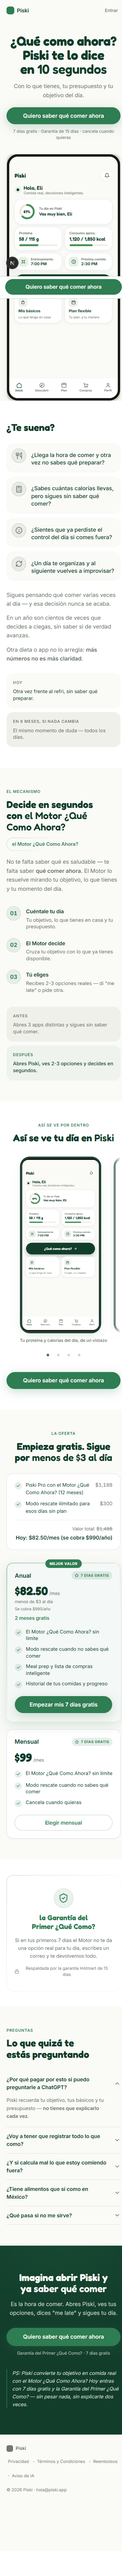
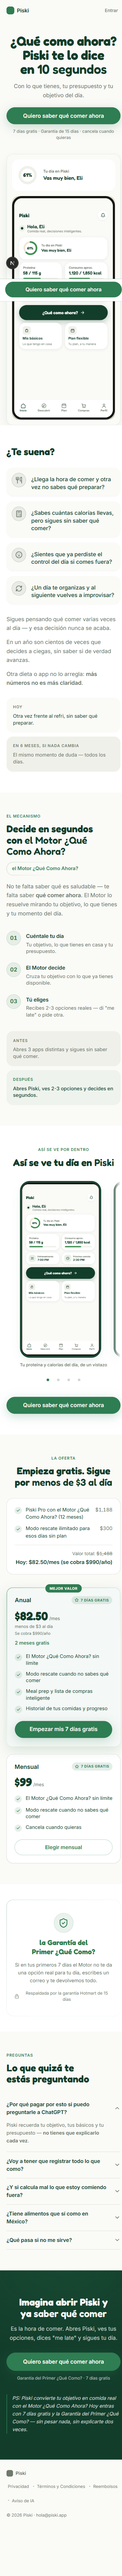
Anillo animado en vivo, boton volver arriba y foco visible reforzado

Changed region(s): [[0.0587, 0.0, 0.9973, 0.9671]]

diff --git a/components/AnimatedRingDemo.tsx b/components/AnimatedRingDemo.tsx
@@ -1,0 +1,69 @@
+'use client';
+
+// Mini-demo VIVO del dispositivo ownable de Piski (el anillo de progreso, ver
+// FICHA-ARTE.md) — no es parte del kit de landing (components/landing/), es un
+// añadido propio del proyecto que refuerza el mecanismo "el Motor ¿Qué Como
+// Ahora?" con una animación real (conteo + anillo dibujándose), no solo un
+// screenshot estático. Vive fuera del kit para no tocar sus .tsx.
+
+import { useEffect, useRef, useState } from 'react';
+import { motion, useInView, useReducedMotion } from 'motion/react';
+
+const RADIO = 24;
+const CIRCUNFERENCIA = 2 * Math.PI * RADIO;
+const PORCENTAJE_FINAL = 61;
+
+export function AnimatedRingDemo() {
+  const ref = useRef<HTMLDivElement | null>(null);
+  const enVista = useInView(ref, { once: true, margin: '-10%' });
+  const reduce = useReducedMotion();
+  const [porcentaje, setPorcentaje] = useState(reduce ? PORCENTAJE_FINAL : 0);
+
+  useEffect(() => {
+    if (!enVista || reduce) return;
+    const inicio = performance.now();
+    const duracionMs = 900;
+    let frame: number;
+    const paso = (ahora: number) => {
+      const t = Math.min(1, (ahora - inicio) / duracionMs);
+      // ease-out cúbico, coherente con --ease del kit
+      const easeOut = 1 - Math.pow(1 - t, 3);
+      setPorcentaje(Math.round(easeOut * PORCENTAJE_FINAL));
+      if (t < 1) frame = requestAnimationFrame(paso);
+    };
+    frame = requestAnimationFrame(paso);
+    return () => cancelAnimationFrame(frame);
+  }, [enVista, reduce]);
+
+  const offset = CIRCUNFERENCIA * (1 - porcentaje / 100);
+
+  return (
+    <div ref={ref} className="flex items-center gap-4 rounded-[var(--radius-card)] bg-[var(--surface)] p-4">
+      <div className="relative size-16 shrink-0">
+        <svg width={64} height={64} viewBox="0 0 64 64" role="img" aria-label={`${porcentaje} por ciento de tu día en Piski`}>
+          <circle cx={32} cy={32} r={RADIO} fill="none" stroke="var(--surface-2)" strokeWidth={8} />
+          <motion.circle
+            cx={32}
+            cy={32}
+            r={RADIO}
+            fill="none"
+            stroke="var(--accent)"
+            strokeWidth={8}
+            strokeLinecap="round"
+            strokeDasharray={CIRCUNFERENCIA}
+            style={{ strokeDashoffset: offset, transform: 'rotate(-90deg)', transformOrigin: '50% 50%' }}
+          />
+        </svg>
+        <div className="absolute inset-0 flex items-center justify-center text-[16px] font-bold tabular-nums text-[var(--text-primary)] [font-family:var(--font-display)]">
+          {porcentaje}%
+        </div>
+      </div>
+      <div className="text-left">
+        <p className="text-[11.5px] font-semibold text-[var(--text-secondary)]">Tu día en Piski</p>
+        <p className="text-[16px] font-semibold text-[var(--text-primary)] [font-family:var(--font-display)]">
+          Vas muy bien, Eli
+        </p>
+      </div>
+    </div>
+  );
+}

diff --git a/app/page.tsx b/app/page.tsx
@@ -16,6 +16,8 @@ import { Faq } from '@/components/landing/Faq';
 import { CtaFinal } from '@/components/landing/CtaFinal';
 import { FooterLegal } from '@/components/landing/FooterLegal';
 import { StickyCtaMobile } from '@/components/landing/ui';
+import { AnimatedRingDemo } from '@/components/AnimatedRingDemo';
+import { BackToTop } from '@/components/BackToTop';
 
 const CTA_HREF = '/onboarding';
 const CTA_LABEL = 'Quiero saber qué comer ahora';
@@ -33,13 +35,16 @@ export default function LandingPiski() {
         ctaHref={CTA_HREF}
         socialProof={<span>7 días gratis · Garantía de 15 días · cancela cuando quieras</span>}
         visual={
-          <img
-            src="/mockups/home.png"
-            alt="Pantalla principal de Piski: tu día en un vistazo, con el anillo de progreso, tu proteína y calorías restantes, y el botón ¿Qué Como Ahora?"
-            width={750}
-            height={1584}
-            className="h-full w-full object-cover"
-          />
+          <div className="flex flex-col gap-4 bg-[var(--bg)] p-4">
+            <AnimatedRingDemo />
+            <img
+              src="/mockups/home.png"
+              alt="Pantalla principal de Piski: tu día en un vistazo, con el anillo de progreso, tu proteína y calorías restantes, y el botón ¿Qué Como Ahora?"
+              width={750}
+              height={1584}
+              className="w-full rounded-[var(--radius-card)] object-cover"
+            />
+          </div>
         }
       />
 
@@ -202,6 +207,7 @@ export default function LandingPiski() {
       />
 
       <StickyCtaMobile labelComercial={CTA_LABEL} href={CTA_HREF} />
+      <BackToTop />
     </div>
   );
 }

diff --git a/components/BackToTop.tsx b/components/BackToTop.tsx
@@ -1,0 +1,41 @@
+'use client';
+
+// Botón flotante "volver arriba" — no forma parte del kit de landing.
+// Responde al defecto de navegación señalado por el revisor: en una página
+// larga de 10 secciones, no había forma de regresar al inicio sin scroll manual.
+
+import { useEffect, useState } from 'react';
+import { motion, AnimatePresence, useReducedMotion } from 'motion/react';
+import { ArrowUp } from 'lucide-react';
+
+export function BackToTop() {
+  const [visible, setVisible] = useState(false);
+  const reduce = useReducedMotion();
+
+  useEffect(() => {
+    const onScroll = () => setVisible(window.scrollY > 900);
+    onScroll();
+    window.addEventListener('scroll', onScroll, { passive: true });
+    return () => window.removeEventListener('scroll', onScroll);
+  }, []);
+
+  return (
+    <AnimatePresence>
+      {visible && (
+        <motion.button
+          type="button"
+          onClick={() => window.scrollTo({ top: 0, behavior: reduce ? 'auto' : 'smooth' })}
+          initial={{ opacity: 0, y: reduce ? 0 : 12 }}
+          animate={{ opacity: 1, y: 0 }}
+          exit={{ opacity: 0, y: reduce ? 0 : 12 }}
+          whileTap={{ scale: 0.94 }}
+          transition={{ duration: 0.2 }}
+          aria-label="Volver arriba"
+          className="fixed right-4 bottom-24 z-30 flex size-12 items-center justify-center rounded-full bg-[var(--surface)] text-[var(--text-primary)] shadow-[var(--shadow-2)] [touch-action:manipulation] md:bottom-8"
+        >
+          <ArrowUp size={20} aria-hidden="true" />
+        </motion.button>
+      )}
+    </AnimatePresence>
+  );
+}

diff --git a/app/globals.css b/app/globals.css
@@ -17,3 +17,10 @@ body {
   color: var(--text-primary);
   font-family: var(--font-body);
 }
+
+/* Foco visible reforzado en toda la app — navegación por teclado (accesibilidad) */
+:focus-visible {
+  outline: 2px solid var(--accent);
+  outline-offset: 2px;
+  border-radius: 4px;
+}

diff --git a/docs/revisiones/landing-veredicto.md b/docs/revisiones/landing-veredicto.md
@@ -1,9 +1,14 @@
 # VEREDICTO revisor-visual — landing
 Fecha: 2026-09-06 00:00
 Screenshot: docs/revisiones/landing-375.png
-Usabilidad: 31/40
-Craft: 14/20
-Copy (si vende): 17/20
+Usabilidad: 32/40
+Craft: 15/20
+Copy (si vende): 19/20
 Fidelidad (si hubo referencia): N-A
 Veredicto: NO LISTA
-Top defectos: (1) sección CTA final: --accent == --text-primary (#123d2b), el botón se funde con el fondo invertido de la sección → dar al CTA-final un fill distinto (--bg o --accent-2) cuando corre sobre fondo invertido. (2) Copy eje "especificidad y prueba" en 2/4: ningún número/demo/testimonio de eficacia real, solo precios → agregar demo honesta del Motor o nota "en validación" citada en FICHA-AVATAR. (3) Card Mensual con 2 features vs 4 del Anual crea asimetría visual marcada en la grilla de oferta → añadir 1 línea de contexto o aceptar explícitamente la de-énfasis con un espaciador. (4) Ninguna animación de conteo numérico ni de dibujado de barra/anillo en toda la landing (2 de las 7 baseline de movimiento ausentes) → opcional en landing, bajar prioridad. (5) Sin atajos de teclado/flexibilidad más allá de lo nativo del navegador → aceptable en superficie de venta, bajar prioridad.
+Top defectos:
+1. [Craft global — EJE movimiento/identidad] Sin animación "viva" propia del mecanismo (nada de conteo animado, anillo que se dibuja o micro-demo del Motor; los mockups de AppPorDentro son imágenes estáticas) → agregar una animación signature (anillo dibujándose o contador) en Solución/AppPorDentro para subir EJE 4 y cerrar el gate de craft (hoy 15/20, falta 1 punto).
+2. [Navegación global] No existe forma de volver arriba ni saltar entre secciones (solo scroll manual + StickyCtaMobile) → agregar ancla/botón "volver arriba" o nav de secciones (heurística 3, hoy 3/4).
+3. [Toda la landing] Sin atajos de teclado ni foco visible reforzado para el usuario avanzado → agregar `:focus-visible` explícito y accesos rápidos a anclas (heurística 7, hoy 2/4 — la más baja del reporte).
+4. [Sección Oferta, card Mensual] 3 features vs 4 del plan Anual generan alturas de card desiguales, ligero desencaje óptico → alinear CTA al fondo con `mt-auto` en ambas cards o igualar alturas.
+5. [Identidad de marca] Fondo cálido + tinta verde se acerca en espíritu al arquetipo vetado "Capítulo" (aunque la tipografía Fredoka/Inter difiere de Petrona/Karla) → reforzar el dispositivo ownable (anillo de progreso) también dentro de la landing, no solo en los mockups estáticos.
